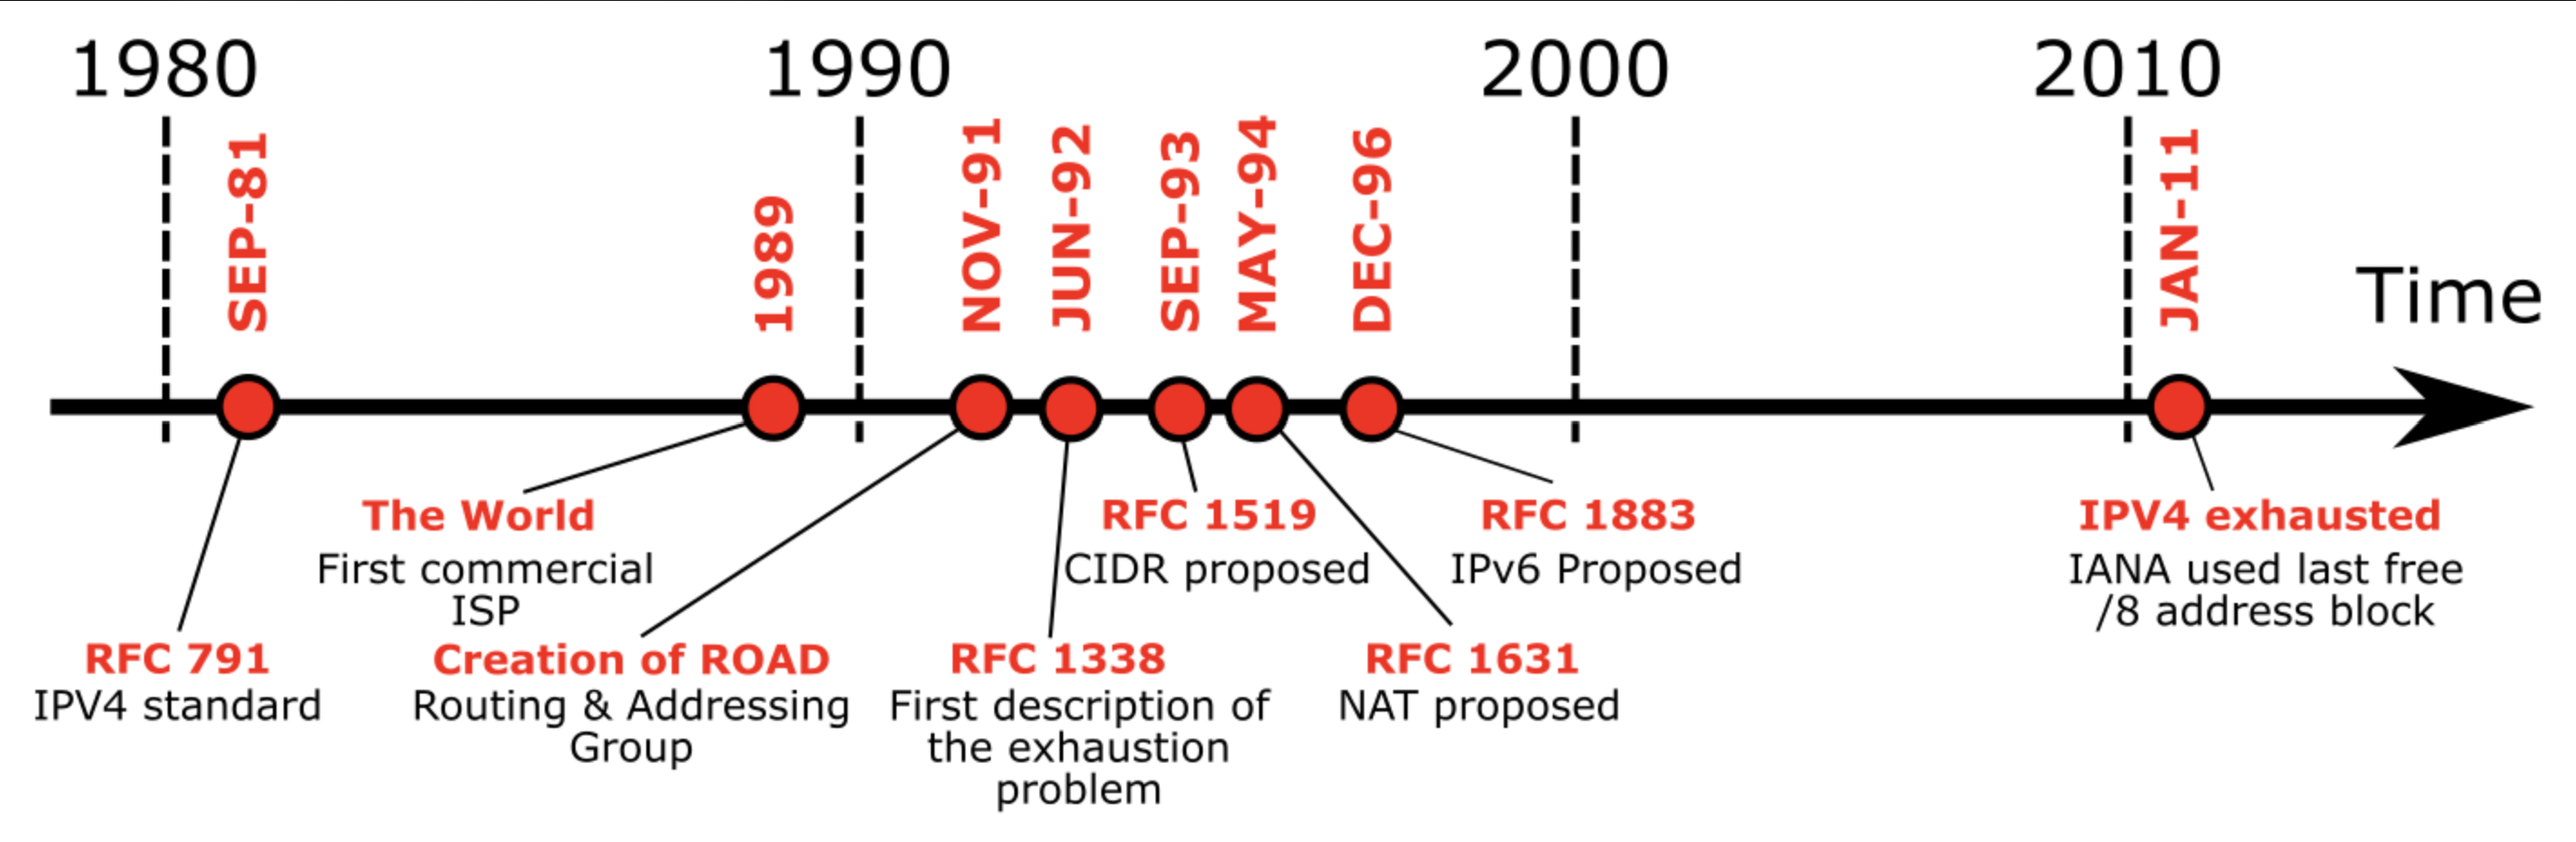
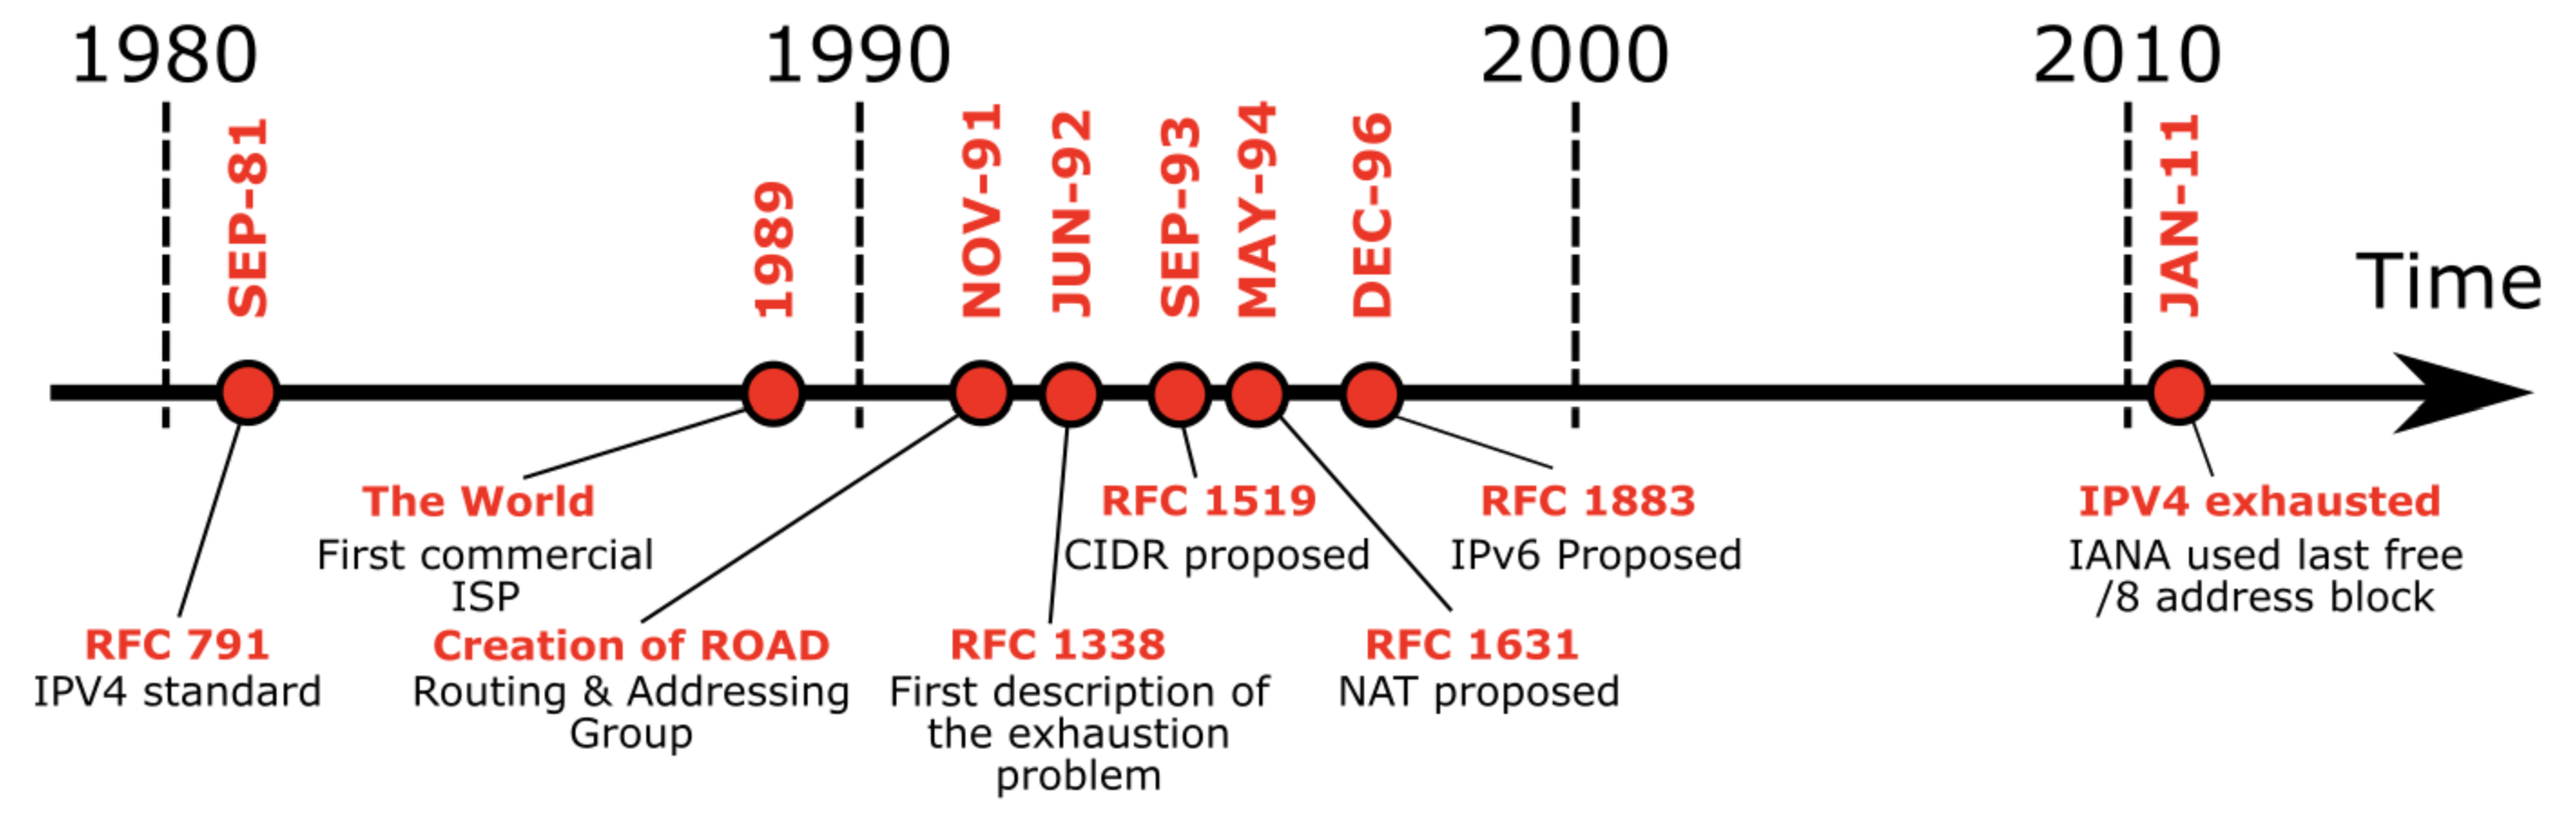
a litte bit of this and a little bit of that

diff --git a/docs/kk.md b/docs/kk.md
@@ -55,7 +55,7 @@
 	- Chaque hôte recevait une adresse IP de 32 bits.
 	- La structure hiérarchique (ID réseau + ID hôte) permettait le routage sur de multiples réseaux.
 - **Format de paquet:** 
-	- IPv4 définissait un en-tête universel et des règles de fragmentation, de routage et de livraison.
+	- IPv4 définissait un entête universel et des règles de fragmentation, de routage et de livraison.
 	- Les routeurs pouvaient lire un paquet IPv4 indépendamment du réseau physique sous-jacent.
 - **La pile TCP/IP:**
 	- **Standardisation d’IPv4 (1981):**
@@ -121,15 +121,15 @@ where:
 
 - Le programme applicatif émetteur prépare ses données et fait appel à son module Internet local pour envoyer ces données sous forme de datagramme, en lui fournissant l’adresse de destination et d’autres paramètres comme arguments de l’appel.
     
-- Le module Internet prépare un en-tête de datagramme et y attache les données. Il détermine ensuite une adresse de réseau local correspondant à l’adresse Internet, dans ce cas l’adresse d’une passerelle. Il envoie ce datagramme et l’adresse de réseau local à l’interface de réseau local.
+- Le module Internet prépare un entête de datagramme et y attache les données. Il détermine ensuite une adresse de réseau local correspondant à l’adresse Internet, dans ce cas l’adresse d’une passerelle. Il envoie ce datagramme et l’adresse de réseau local à l’interface de réseau local.
     
-- L’interface de réseau local crée un en-tête de réseau local, y attache le datagramme, puis envoie l’ensemble via le réseau local.
+- L’interface de réseau local crée un entête de réseau local, y attache le datagramme, puis envoie l’ensemble via le réseau local.
     
-- Le datagramme arrive sur la machine passerelle encapsulé dans l’en-tête de réseau local. L’interface de réseau local retire cet en-tête et remet le datagramme au module Internet.
+- Le datagramme arrive sur la machine passerelle encapsulé dans l’entête de réseau local. L’interface de réseau local retire cet entête et remet le datagramme au module Internet.
     
 - Le module Internet détermine, à partir de l’adresse Internet, que le datagramme doit être retransmis vers un autre hôte sur un second réseau. Il calcule l’adresse de réseau local de l’hôte de destination, puis fait appel à l’interface du réseau local correspondant pour envoyer le datagramme.
     
-- Cette interface de réseau local crée un en-tête de réseau local, y attache le datagramme et envoie l’ensemble vers l’hôte de destination. Sur cet hôte, l’interface de réseau local retire l’en-tête et remet le datagramme au module Internet.
+- Cette interface de réseau local crée un entête de réseau local, y attache le datagramme et envoie l’ensemble vers l’hôte de destination. Sur cet hôte, l’interface de réseau local retire l’entête et remet le datagramme au module Internet.
     
 - Le module Internet détermine que le datagramme est destiné à un programme applicatif de cet hôte. Il transmet alors les données au programme applicatif en réponse à un appel système, en fournissant l’adresse source et d’autres paramètres comme résultats de l’appel.
 
@@ -146,10 +146,10 @@ where:
 ![Packet structure](../assets/images/ipv4-header.png)
 
 - **Version : 4 bits**  
-	- Ce champ indique le format de l'en-tête Internet. Il vaut 4 dans le cas d'un packet IPv4.
+	- Ce champ indique le format de l'entête Internet. Il vaut 4 dans le cas d'un packet IPv4.
 
 - **IHL : 4 bits**  
-	- La longueur de l’en-tête Internet (Internet Header Length) est exprimée en mots de 32 bits. La valeur minimale pour un en-tête correct est 5.
+	- La longueur de l’entête Internet (Internet Header Length) est exprimée en mots de 32 bits. La valeur minimale pour un entête correct est 5.
 
 - **Type de service : 8 bits**  
 	- Le type de service indique les **paramètres abstraits** de la **qualité de service souhaitée**. Ces paramètres servent à **guider la sélection des paramètres réels** du service lors de la transmission d’un datagramme à travers un réseau particulier.
@@ -164,7 +164,7 @@ where:
 - Dans de nombreux réseaux, améliorer un paramètre entraîne une dégradation d’un autre. Sauf cas très particuliers, **au plus deux** de ces trois bits devraient être activés.
 
 - **Longueur totale : 16 bits**  
-	- La longueur totale correspond à la taille du datagramme en octets, incluant l’en-tête Internet et les données. 
+	- La longueur totale correspond à la taille du datagramme en octets, incluant l’entête Internet et les données. 
 	- Elle permet une taille maximale de 65 535 octets. 
 	- Tous les hôtes doivent être capables d’accepter des datagrammes jusqu’à 576 octets. 
 
@@ -181,16 +181,16 @@ where:
 	- Indique où ce fragment se situe dans le datagramme original. Exprimé en unités de 8 octets (64 bits). Le premier fragment a un offset de zéro.
 
 - **Durée de vie (TTL) : 8 bits**  
-	- Indique le temps maximum pendant lequel le datagramme peut rester dans le système Internet. Si ce champ vaut zéro, le datagramme doit être détruit. Il est modifié à chaque traitement de l’en-tête.
+	- Indique le temps maximum pendant lequel le datagramme peut rester dans le système Internet. Si ce champ vaut zéro, le datagramme doit être détruit. Il est modifié à chaque traitement de l’entête.
 
 - **Protocole : 8 bits**  
 	- Indique le protocole de niveau supérieur utilisé dans la partie données du datagramme Internet.
 
 - **Checksum: 16 bits**  
-	- Checksum portant uniquement sur l’en-tête. Comme certains champs changent (ex. : TTL), elle est **recalculée et vérifiée à chaque traitement.**
+	- Checksum portant uniquement sur l’entête. Comme certains champs changent (ex. : TTL), elle est **recalculée et vérifiée à chaque traitement.**
 	
 	- Algorithme
-		- Le checksum est le complément à un de la somme, elle-même en complément à un, de tous les mots de 16 bits de l’en-tête. Pour le calcul, le champ de somme de contrôle vaut zéro.
+		- Le checksum est le complément à un de la somme, elle-même en complément à un, de tous les mots de 16 bits de l’entête. Pour le calcul, le champ de somme de contrôle vaut zéro.
 		- Cette somme est simple à calculer et semble adéquate selon les expériences.
 
 - **Adresse source : 32 bits**  
@@ -230,7 +230,7 @@ where:
 |2|4|var.|Horodatage Internet|
 
 - **Padding : variable**  
-	- Padding de l’en-tête Internet sert à aligner celui-ci sur une limite de 32 bits. Il est constitué de zéros.
+	- Padding de l’entête Internet sert à aligner celui-ci sur une limite de 32 bits. Il est constitué de zéros.
 
 ---
 ### D) Limitations: The exhaustion problem
@@ -272,7 +272,7 @@ Cependant, à mesure que l’Internet a évolué et s’est étendu au fil des a
 
 - Le champ d’identification est utilisé pour distinguer les fragments d’un datagramme de ceux d’un autre. Le module de protocole émetteur d’un datagramme internet assigne au champ d’identification une valeur qui doit être unique pour cette paire source–destination et ce protocole, pendant toute la durée durant laquelle le datagramme reste actif dans le système internet. Le module de protocole émetteur d’un datagramme complet positionne l’indicateur “plus de fragments” à zéro et l’offset de fragment à zéro.
 
-- Pour rassembler les fragments d’un datagramme internet, un module du protocole Internet (par exemple sur un hôte de destination) combine les datagrammes internet qui ont la même valeur pour les quatre champs: identification, source, destination et protocole. La combinaison est effectuée en plaçant la partie données de chaque fragment à la position relative indiquée par l’offset de fragment dans l’en-tête internet de ce fragment. Le premier fragment possède un offset de fragment égal à zéro, et le dernier fragment a l’indicateur “plus de fragments” remis à zéro.
+- Pour rassembler les fragments d’un datagramme internet, un module du protocole Internet (par exemple sur un hôte de destination) combine les datagrammes internet qui ont la même valeur pour les quatre champs: identification, source, destination et protocole. La combinaison est effectuée en plaçant la partie données de chaque fragment à la position relative indiquée par l’offset de fragment dans l’entête internet de ce fragment. Le premier fragment possède un offset de fragment égal à zéro, et le dernier fragment a l’indicateur “plus de fragments” remis à zéro.
 
 - Pour illustrer le processus de la fragmentation IPv4, on a repris l'exemple vu en cours:
 
